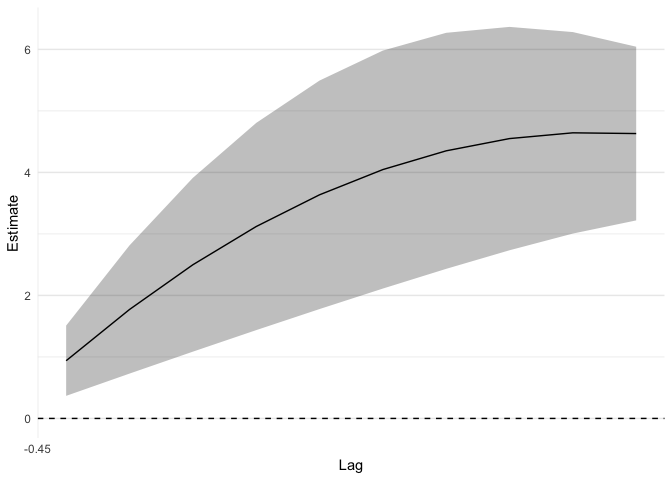
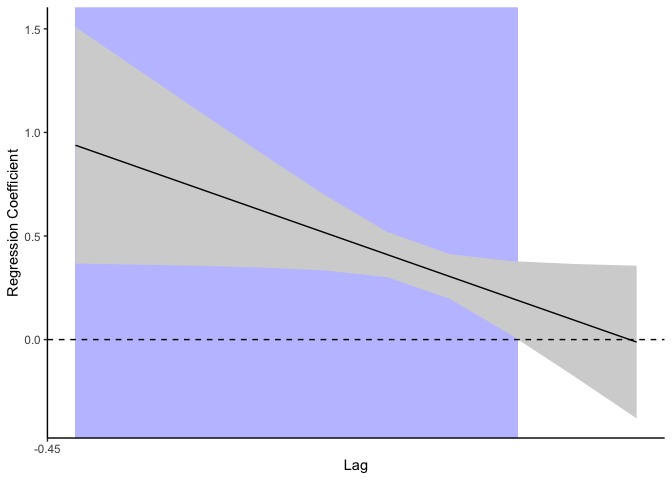
add shading to lag estimate plots based on direction of association (#4)
* add shading to lag estimate plots based on direction of association
- small issue with endpoint of shading for low number of lags

* matched shading to CI crossing 0

* update README.md

diff --git a/README.md b/README.md
@@ -25,7 +25,7 @@ devtools::install_github("geomarker-io/tidydlnm")
 Suppose we have the following data, where lags 0 through 9 are the
 values of some exposure experienced 0 to 9 days before the outcome `y`.
 
-    #> # A tibble: 100 x 11
+    #> # A tibble: 100 × 11
     #>       lag0   lag1   lag2   lag3   lag4   lag5   lag6   lag7   lag8   lag9     y
     #>      <dbl>  <dbl>  <dbl>  <dbl>  <dbl>  <dbl>  <dbl>  <dbl>  <dbl>  <dbl> <dbl>
     #>  1  0.0608  0.309  1.29   1.29   0.782 -0.482 -0.886 -1.93  -1.57  -1.48   49.1
@@ -58,7 +58,7 @@ cpred <- crosspred(cb, mod, at=1, cumul = TRUE)
 Then use `tidydlnm` to obtain more tidyverse-friendly output and plots,
 including
 
--   the estimates at each lag
+- the estimates at each lag
 
 ``` r
 library(tidydlnm)
@@ -69,21 +69,30 @@ tidy_lag_plot(lag_fits)
 
 <img src="man/figures/README-unnamed-chunk-4-1.png" width="100%" />
 
--   the estimated effect over all lags
+- the estimated effect over all lags
 
 ``` r
 tidy_overall_fit(cpred)
-#> # A tibble: 1 x 4
+#> # A tibble: 1 × 4
 #>   estimate    se ci_lower ci_upper
 #>      <dbl> <dbl>    <dbl>    <dbl>
 #> 1     4.63 0.720     3.22     6.04
 ```
 
--   cumulative effect estimates at each lag
+- cumulative effect estimates at each lag
 
 ``` r
 cumul_fits <- tidy_cumul_fits(cpred)
 ```
+
+Add optional shading to plot of estimates at each lag with the `shading`
+argument.
+
+``` r
+tidy_lag_plot(lag_fits, shading = T)
+```
+
+<img src="man/figures/README-unnamed-chunk-7-1.png" width="100%" />
 
 Note that the same plotting function can be used to plot the cumulative
 estimates. Also, since this is a ggplot object, the plot can be
@@ -95,4 +104,4 @@ tidy_lag_plot(cumul_fits) +
   theme_minimal()
 ```
 
-<img src="man/figures/README-unnamed-chunk-7-1.png" width="100%" />
+<img src="man/figures/README-unnamed-chunk-8-1.png" width="100%" />
